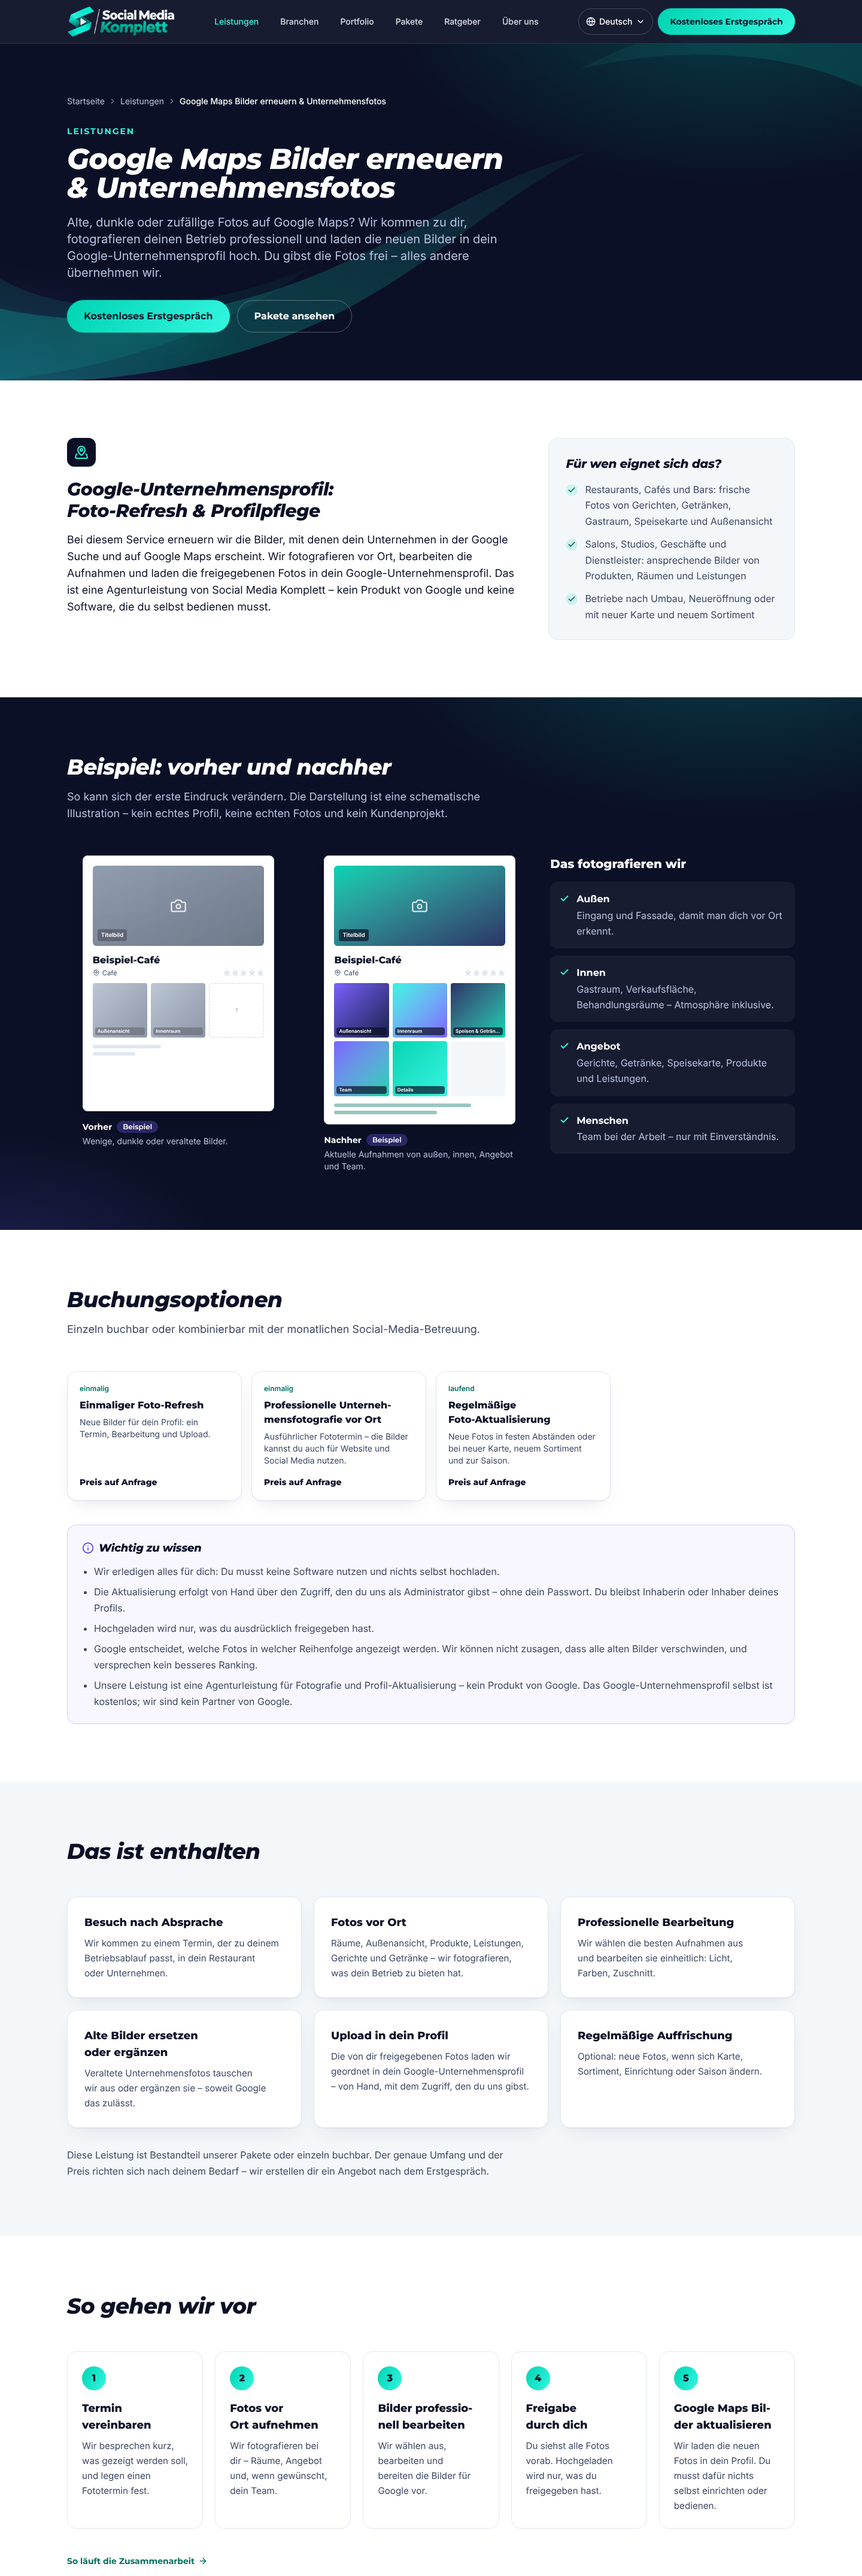
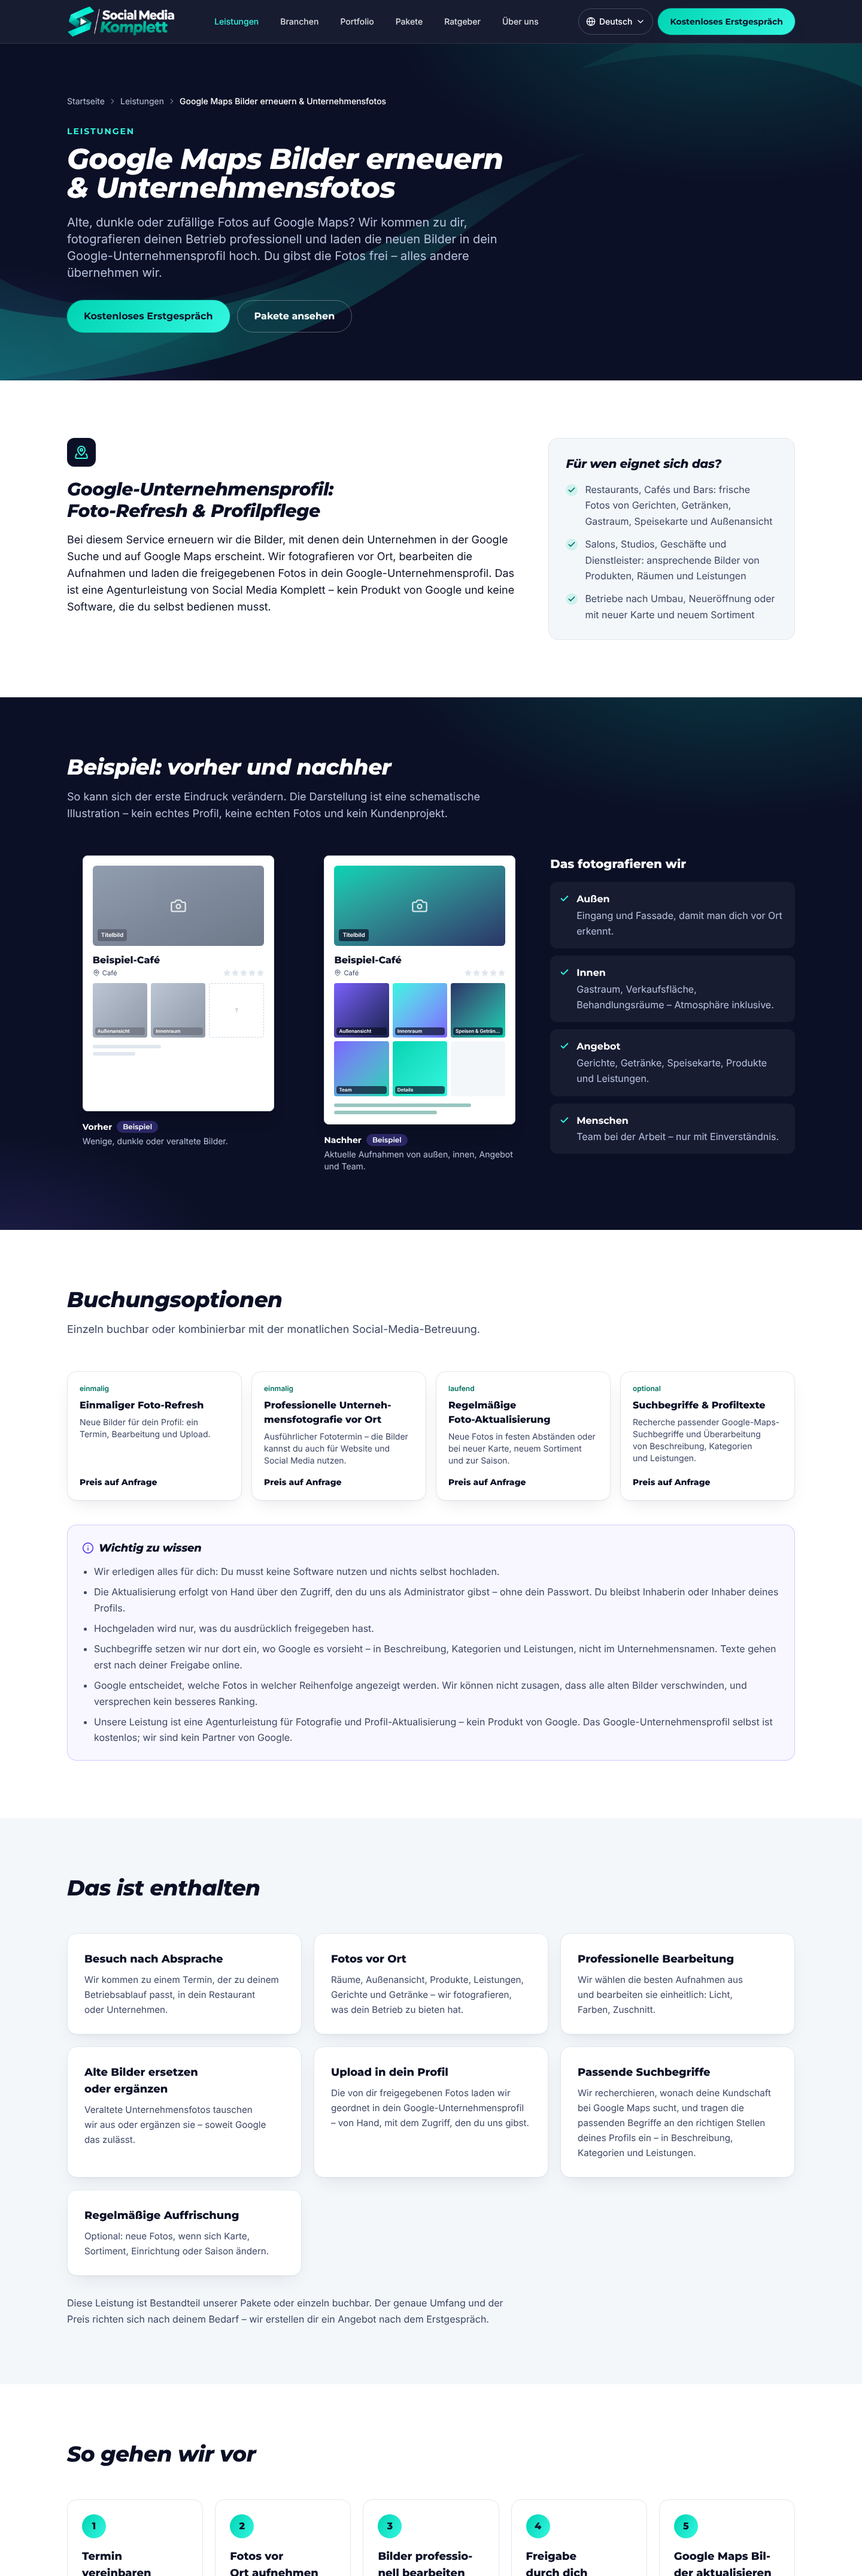
Add Google Maps search-terms offer to the photo service
Optional extra: research of search terms and rewriting description,
categories and services (never the business name), in five languages.

Claude-Session: https://claude.ai/code/session_013hNDU3GRgYBJBCH4dXV5qZ

diff --git a/src/config/service-catalog.ts b/src/config/service-catalog.ts
@@ -68,6 +68,8 @@ export const serviceCatalog: CatalogEntry[] = [
       { id: "gbp-photo-refresh", billing: "once", price: null },
       { id: "gbp-on-site-photography", billing: "once", price: null },
       { id: "gbp-photo-profile-maintenance", billing: "recurring", price: null },
+      // Research of Google Maps search terms + rewriting description, categories and services (never the business name).
+      { id: "gbp-search-terms-profile-texts", billing: "optional", price: null },
     ],
   },
 ];

diff --git a/docs/AGENCY_PLATFORM.md b/docs/AGENCY_PLATFORM.md
@@ -27,7 +27,8 @@ The notes below describe what such an internal list would need; a spreadsheet co
 
 - Menu design: `menu-new-design`, `menu-redesign`, `menu-seasonal-updates`, `menu-print-preparation`
 - Google Maps photos: `gbp-photo-refresh` (Einmaliger Foto-Refresh), `gbp-on-site-photography`
-  (Professionelle Unternehmensfotografie vor Ort), `gbp-photo-profile-maintenance` (Regelmäßige Foto-Aktualisierung)
+  (Professionelle Unternehmensfotografie vor Ort), `gbp-photo-profile-maintenance` (Regelmäßige Foto-Aktualisierung),
+  `gbp-search-terms-profile-texts` (Suchbegriffe & Profiltexte, optional)
 
 ## What the team should record per job
 
@@ -60,6 +61,8 @@ Rules:
   remains the owner. The agency never asks for or stores a Google password. Access is removed when
   the job or engagement ends.
 - Nothing is uploaded without the client's approval.
+- Search terms: researched per client and placed only in the description, categories and services/products —
+  never added to the business name (Google's guidelines require the real-world name). Texts need client approval.
 - The agency does not promise deletion of all old photos, control over Google's photo order, or rankings.
 - It is an agency photography and profile-update service, not a Google product; no partner claims.
 

diff --git a/docs/LAUNCH_CHECKLIST.md b/docs/LAUNCH_CHECKLIST.md
@@ -27,6 +27,8 @@ and are **not** done.
       Google Maps Bilder erneuern & Unternehmensfotos (scope, print coordination, QR-menu hosting, manual upload as profile manager)
 - [ ] **New services — real imagery**: the before/after visuals on both pages are schematic examples.
       Replace them with the agency's own, licensed photos and real menu designs when available
+- [ ] **Search terms offer**: confirm the scope (research + description, categories, services; not the
+      business name) and that it should be an optional extra rather than part of every photo refresh
 - [ ] **Google facts**: open the six Google help links cited in the article "Google Maps Bilder
       aktualisieren" and confirm formats, sizes and role names (they could not be opened during the build)
 

diff --git a/docs/TRANSLATION_REVIEW.md b/docs/TRANSLATION_REVIEW.md
@@ -192,3 +192,5 @@ Unternehmensfotos"). Service names per language: "Refresh Google Maps photos & b
 - [ ] tr: "paket servis broşürü"; "uygulama odaları"; "sıralama konumu"
 - [ ] ku: "nermalav" (software), "cureyên berheman", "xizmetkar" (may read as "servant" — or "pêşkêşkerên xizmetê"),
       "odeyên lênêrînê", "birîn" (crop), "Ev pêşniyareke Google ye?", the ezafe after "rêvebir (Administrator)"
+- [ ] Search-terms addition (include item, fourth booking option, FAQ, note) in all four languages — written
+      without a translator pass; Kurdish wording ("peyvên lêgerînê", "danasîn") especially
